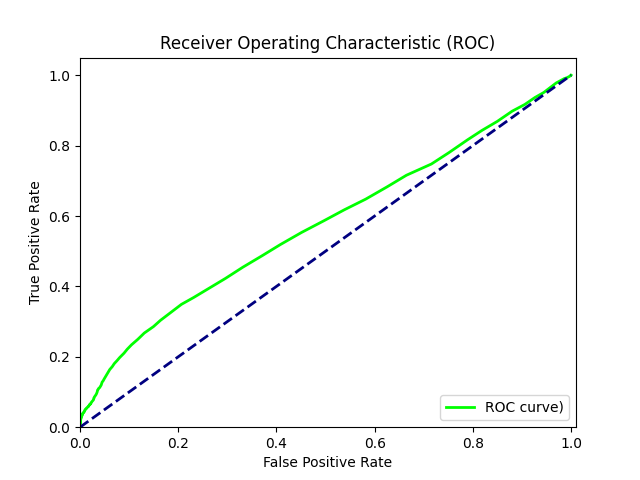
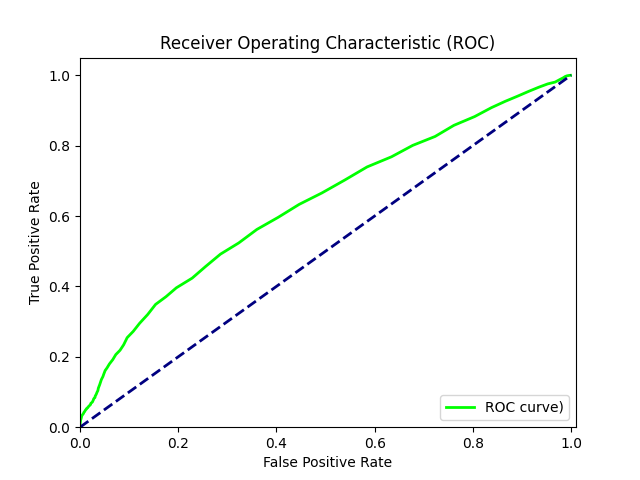
results update

diff --git a/ood_detection.py b/ood_detection.py
@@ -2169,13 +2169,11 @@ class Abnormality_module(OOD_Classifier):   # model to train necessary
         for idx, (x,y) in tqdm(enumerate(test_dl), total= n_steps):
             
             # to test
-            # if idx >= 1: break
+            # if idx>60:break
             
             x = x.to(self.device)
             with T.no_grad():
                 with autocast():
-                    
-                    x += 0.1
                     
                     out = self._forward_A(x)
 
@@ -2193,9 +2191,10 @@ class Abnormality_module(OOD_Classifier):   # model to train necessary
                     # if not basic Abnromality model, do recuction here
                     
                     logit = self._forward_B(probs_softmax, encoding, residual)
+                                                            
                     # risk = T.squeeze(risk)
                     risk =self.sigmoid(logit)
-                    
+                        
             # to numpy array
             risk   = risk.cpu().numpy()
             y       = y.numpy()
@@ -2212,7 +2211,11 @@ class Abnormality_module(OOD_Classifier):   # model to train necessary
         
         risks_id = risks_id[:risks_ood.shape[0]]
         
-        # print(risks_idù.shape)
+        
+        # risks_id = risks_id * 0.8
+        
+        # risks_ood = risks_ood**risks_ood
+        # print(risks_id.shape)
         # print(risks_ood.shape)
         # compute statistical moments from risks output
         
@@ -3212,7 +3215,7 @@ if __name__ == "__main__":
     
     # [1] load deep fake classifier
     # choose classifier model as module A associated with a certain scenario
-    classifier_model = 3
+    classifier_model = 4
     scenario = None
     conf_usage_mode = None
 
@@ -3496,11 +3499,11 @@ if __name__ == "__main__":
         abn.test_risk()
     
 
-    test_abn("Abnormality_module_encoder_v3_224p_50e_05-03-2024", 50)
+    # test_abn("Abnormality_module_encoder_v3_224p_50e_05-03-2024", 50)
     # test_abn("Abnormality_module_encoder_v3_224p_50e_fullExtendedOOD_05-03-2024", 50)
     
     
-    # test_abn("Abnormality_module_encoder_v3_224p_50e_06-03-2024", 50)
+    test_abn("Abnormality_module_encoder_v3_224p_50e_06-03-2024", 50)
     # test_abn("Abnormality_module_encoder_v3_224p_50e_fullExtendedOOD_06-03-2024", 50)
     
     

diff --git a/utilities.py b/utilities.py
@@ -833,8 +833,12 @@ def plot_ROC_curve(fpr, tpr, path_save = None, epoch = None, duration_timer = 25
         plt.close()
         # plt.clf()  # clear plot data
     
+    # Interpolate the ROC curve to generate more points
+    
     plt.figure()
     plt.plot(fpr, tpr, color='lime', lw=2, label=f'ROC curve)')
+    # plt.plot(interp_fpr, interp_tpr, color='lime', lw=2, label=f'ROC curve)')
+    
     plt.plot([0, 1], [0, 1], color='navy', lw=2, linestyle='--')
     plt.xlim([0.0, 1.01])
     plt.ylim([0.0, 1.05])
